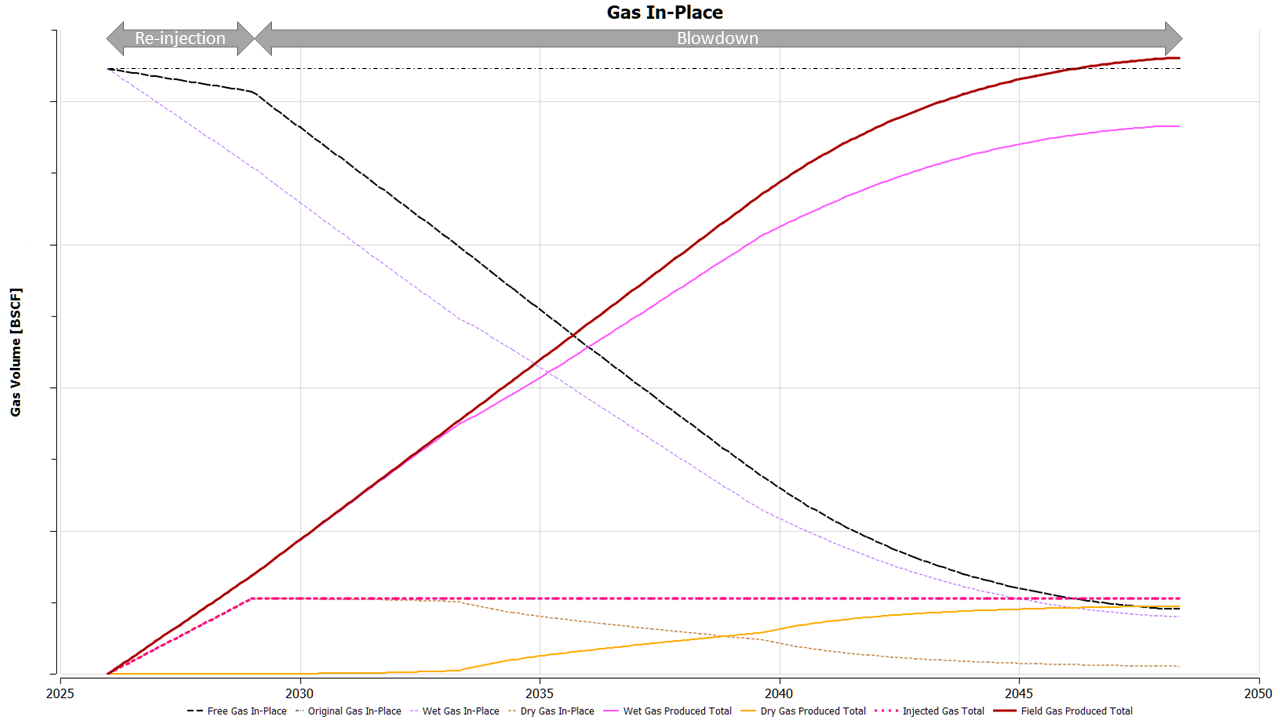
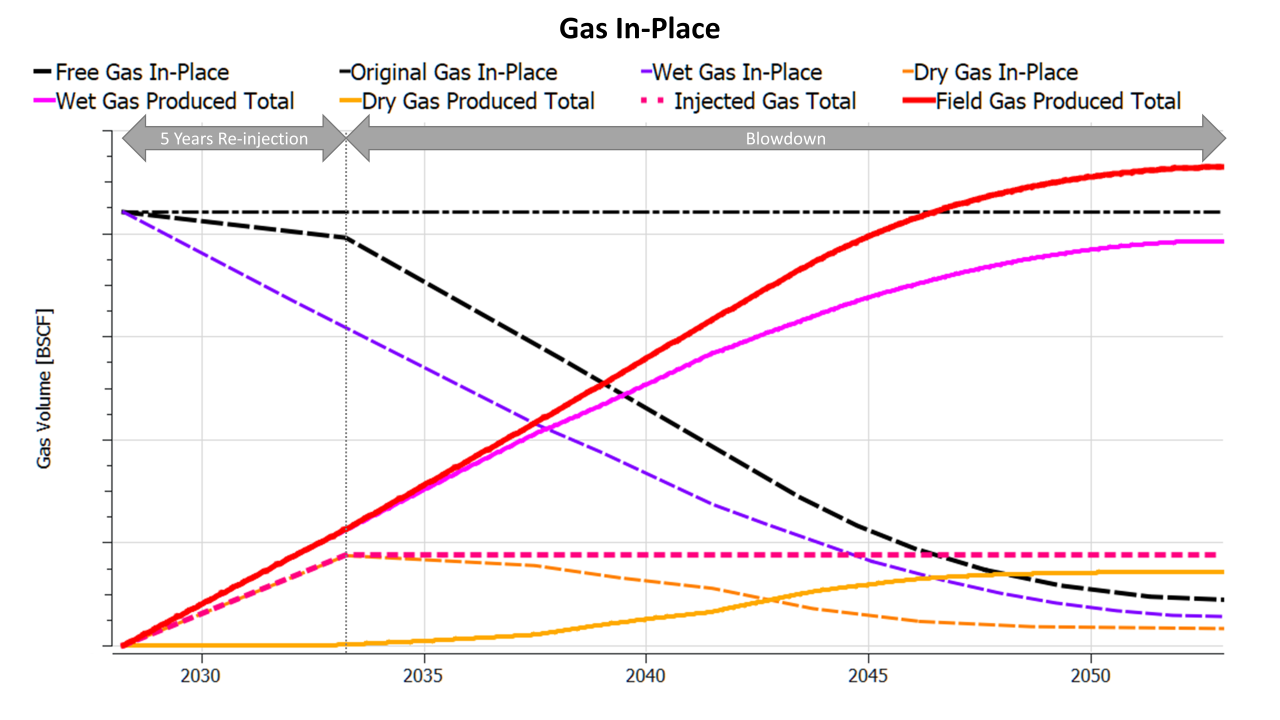
Post on creating a better ECLIPSE editor
New blog post on better text editor support for ECLIPSE files in NetBeans IDE, including syntax highlighting, code folding and error checking. Also further fixes script for gas-recycling using modified black-oil approach.

diff --git a/_posts/pyrus/2024-01-04-writing-editor-for-eclipse.md b/_posts/pyrus/2024-01-04-writing-editor-for-eclipse.md
@@ -1,0 +1,173 @@
+---
+layout: article
+title: Writing an Editor for ECLIPSE Decks
+modified:
+categories: pyrus
+excerpt: Leveraging the NetBeans IDE to support editing of ECLIPSE language simulation decks for use in OPM Flow.
+tags: [pyrus_suite, netbeans, dynamic_modelling, simulation, software, OPM_Flow, programming, simulation_deck, ide]
+image:
+  feature: feature-writing-editor-for-eclipse-1024x256.jpg
+  teaser: teaser-writing-editor-for-eclipse-400x250.jpg
+  thumb:
+comments: true
+---
+
+A previous approach to improving the quality of life when dealing with the input text files for _OPM Flow_ was to [implement syntax highlighting in _Notepad++_](/analysis/syntax-highlighting-for-opmflow-in-notepadpp) which aided the readability of the simulation deck by indicating the meaning of text via colour. There were some shortcomings with this implementation and it led to the question as to whether it could be improved on and if other quality of life improvements could also be brought to bear.
+
+I've been working on implementing a proper reservoir simulation deck editor for the NetBeans platform for a few weeks now, and have made good progress. This article demonstrates what has been achieved so far and the planned way ahead.
+
+## Writing an Editor for ECLIPSE Decks
+
+The standard input form for a reservoir simulation is a simple text file. Text editors are ubiquitous in the computing world, and editing these files is thus a relatively easy task in comparison to some of the other formats that are encountered in the oil and gas industry.
+
+Programs are also written using text files which are then compiled (or interpreted) to produce the desired behaviour. A variety of different techniques have arisen over many years to improve and facilitate the editing of these text files:
+
+ * **Syntax highlighting:** Within any programming language, certain words are "reserved" and have a particular function and purpose in that language. The use of these words, in combination with the known grammar of the language, indicates that other words are either identifiers (variable names), or values such as numbers or strings. By leveraging the known structure of a language, colour can be applied to the words in a text file to highlight the purpose of the text in the context of that language i.e., to reveal and emphasise the syntax of the text. This is a powerful feature that greatly aids readability of the text file
+ * **Code folding:** Programs tend to be made up of blocks of statements with a defined start and end. In a lengthy program there can be thousands of lines of code in any given file. This can make scrolling through the document to find a specific block or statement quite tedious. Code folding allows blocks of text such as multi-line comments and statements to be collapsed to a single line when displayed. This allows much more of the program structure to be seen and understood on a single display.
+ * **Error checking:** Typos are a fact of life. Most integrated development environments (IDEs) will highlight basic errors such as these without the need to attempt to compile or run the program. More advanced IDEs can even detect common input errors which would compile and run, but lead to subtle bugs in the program; a process known as [linting](https://en.wikipedia.org/wiki/Lint_(software)).
+ * **Code completion:** Writing code can be a repetitive exercise. Often when writing sections of code, it is reasonably predictable what is needed to complete a statement. A good IDE will offer to complete writing statements once it is fairly certain what the remaining text should look like. This greatly speeds up writing.
+ * **Documentation on hover:** Information about keywords and the expected syntax can be provided as a hint when the mouse cursor hovers over that keyword. This can greatly aid the utility of the editor as the need to constantly reference a separate manual is removed.
+ * **Reformatting:** In any text document, as a general rule, whitespace and comments do not hold any meaning, and are skipped over when interpreting the file. However, this means that files can, and do, easily become a mess of different styles. This becomes more pronounced when cut and paste from other code is used. A good IDE will effortlessly tidy up messy files to produce consistently formatted documents with the desired whitespace and comments that wrap to a desired row length.
+ * **Refactoring:** This is essentially a more powerful version of a find and replace. A good IDE can not only mark all occurrences of a specific word in a text document, but will also intelligently replace all usages of that word with a different one, even in related files that refer to the code being changed.
+
+This is by no means an exhaustive list, and there are many other useful features that have been devised to assist with writing code. Previously I had implemented some basic syntax highlighting using Notepad++ for ECLIPSE input decks. I personally found this to be incredibly useful, and was surprised to learn that did not appear to be any prior implementations. Whilst the Notepad++ syntax highlighting was useful, there were a few shortcomings and the question I had to ask was, "can I do better?".
+
+Ideally I would be able to incorporate an editor into the Pyrus Suite which is built on the NetBeans platform, and NetBeans is itself used as an IDE for a variety of different languages. This platform is extendable to other languages, and eventually I had what was, in hindsight, a fairly obvious epiphany... why not use the NetBeans platform to write an IDE for ECLIPSE files. Almost all of the underlying plumbing has already been created. All I would need to do it plug into it and define the rules for the ECLIPSE language.
+
+Inevitably this was a bigger task than I had optimistically envisaged. However, just a couple of weeks after I had embarked on this quest, I've managed to implement syntax highlighting, cold folding and error detection (as well as a few bonus features). This blog post explains how I went about the implementation and some interesting things I learned along the way. In the not to distant future I hope to finally release a version of Pyrus that will allow others to use the ECLIPSE editor.
+
+### Proof of Concept NBM Plugin for NetBeans IDE
+
+In the spirit of don't run before you can walk, a single NetBeans module to provide language support for the NetBeans IDE has first been developed. This module should then, in theory, also be usable within the Pyrus Suite. The advantage of developing the plugin as a standalone IDE module is that there are no dependencies on any Pyrus code, and the module can be tested directly within a copy of the IDE.
+
+#### Syntax Highlighting
+
+Syntax highlighting does not require any special functionality to enable it. The ECLIPSE file type is recognised by its MIME type file extension (text/x-eclipse) and the IDE knows to use the Eclipse editor top component when opening this file type by default. The default colours have been designed to work with the "Norway Today" theme included with NetBeans. This is a dark theme that works well for me, although I suspect others may hold an opinion that it is something of an angry fruit salad.
+
+Tokens recognised by the lexer are automatically coloured according to their types:
+
+| Token Type | Colour |
+|---|---|
+| Keyword | Red |
+| Mathematical Operation Keyword | Bronze |
+| User Defined Quantity Keyword | Cyan |
+| OPM Flow Specific Keyword | Italic Red |
+| OPM Unsupported Keyword | Italic Grey |
+| Grid Cell Variable | India Green |
+| Summary Variable | Light Green |
+| User Defined Variable | White |
+| Number | Yellow |
+| Quoted String | Yellow |
+| Unquoted String | Yellow |
+| Terminating Slash | White |
+| Comment | Light Blue |
+| Text | White |
+
+Whilst this initially appears that there are many different colours that could clash, the logic is that colours appear in groups, so aid in identification of different keywords simply by the syntax highlighting used for that keyword.
+
+For example, many keywords are standalone activation keywords, or associated with array data, row data or column data that comprises numbers and strings, both with and without terminating slash characters. These blocks of keywords will appear as a combination of red, yellow and white text. Mathematical operation keywords such as `OPERATE`, `ADD` etc. are bronze, and are associated with numbers and strings (yellow), grid cell variables (forest green) and terminating slashes (white). Finally, user defined quantity keywords such as `UDQ` or `ACTIONX` use cyan for the keywords, light green for any summary variables included in expressions, white colour for user-defined variables or operators and terminating slashes, and yellow for numbers and strings. The use of different colours means that the blocks of mathematical operation keywords or user defined quantity keywords appear distinct from the conventional keywords.
+
+This can be seen in the following figure which compares the three different blocks just mentioned.
+
+<figure>
+	<a href="{{ site.url }}/images/Pyrus/writing-editor-for-eclipse1.png" data-lightbox="image-1" data-title="Comparison of syntax highlighting for different keywords.">
+		<img src="{{ site.url }}/images/Pyrus/writing-editor-for-eclipse1.png" alt="Comparison of syntax highlighting for different keywords."/>
+	</a>
+	<figcaption><strong>Figure 1: Comparison of syntax highlighting for different keywords.</strong></figcaption>
+</figure>
+
+As the ECLIPSE editor is written with the _OPM Flow_ simulator in mind, there is also special treatment for certain keywords. Keywords such as `PVTSOL` that are recognised only by _OPM Flow_ are shown in italics, and recognised but unsupported keywords are shown in grey. Other commercial simulation programs such as `tNavigator` that also have their own proprietary keywords, will initially appear as keywords in bold red, but will also be marked as a potential error as the keyword is not recognised.
+
+#### Code Folding
+
+Moving on from syntax highlighting we have code folding. For most languages this is relatively straightforward as multi-line comment blocks have a distinct start and end, as do methods and other similar statements which are defined by their start and end braces.
+
+In the ECLIPSE language there are no braces via which detection of the start and end of a keyword or comment block can be achieved. The simplest case are multi-line comments which are just a sequence of single line comments. This is reasonably easy to detect. When single line comment is encountered, if the next line is also a single line comment or empty, then add it to the fold block. This logic continues until a line that is not empty or a single line comment is encountered.
+
+Keywords are more difficult. To wrap our keywords in a code fold, we have to define the start and end of the keyword. Defining the start is relatively easy, as it is simply triggered every time a keyword is encountered in the token sequence. However, the end is not as straightforward. Logically one might define this as the token before the next keyword (with the exception of `ACTIONX` keywords, there is no nesting of keywords). However, what if there are comments before the next keyword? In that case we must define the end of the fold as the line prior to the next keyword that is not a single line comment or an empty line.
+
+In practice the user does not need to concern themselves with any of this. The code folds appear in the left margin of the editor as little '+' or '-' symbols and can be collapsed or expanded by clicking on the fold. A very useful function is the option to collapse all folds at once with the shortcut <kbd>Ctrl</kbd> + <kbd>Shift</kbd> + <kbd>-</kbd>. This collapses blocks of comments and keywords into a single line each. Note that the folded blocks indicate whether the fold contains a comment, or a keyword, and shows how many lines are folded. This makes it much easier to see the overall structure and purpose of an ECLIPSE deck at a glance.
+
+<figure>
+	<a href="{{ site.url }}/images/Pyrus/writing-editor-for-eclipse2.png" data-lightbox="image-2" data-title="Eclipse simulation deck with code folding applied to recognised keywords and comment blocks.">
+		<img src="{{ site.url }}/images/Pyrus/writing-editor-for-eclipse2.png" alt="Eclipse simulation deck with code folding applied to recognised keywords and comment blocks."/>
+	</a>
+	<figcaption><strong>Figure 2: Eclipse simulation deck with code folding applied to recognised keywords and comment blocks.</strong></figcaption>
+</figure>
+
+The reverse operation, to expand all folds, is accomplished using the shortcut <kbd>Ctrl</kbd> + <kbd>Shift</kbd> + <kbd>+</kbd>.
+
+Once you have collapsed all the folds, whilst it is much easier to get a birds eye view of the simulation deck structure, the detail for individual keywords is now hidden. Hovering over a folded block will reveal the text that has been folded, without needing to expand and then collapse the fold again just to peek at the contents. The example shown here hovers over the folded PVDS keyword to reveal the content of that keyword.
+
+<figure>
+	<a href="{{ site.url }}/images/Pyrus/writing-editor-for-eclipse3.png" data-lightbox="image-3" data-title="Folded content is revealed upon mouse hover over the fold.">
+		<img src="{{ site.url }}/images/Pyrus/writing-editor-for-eclipse3.png" alt="Folded content is revealed upon mouse hover over the fold."/>
+	</a>
+	<figcaption><strong>Figure 3: Folded content is revealed upon mouse hover over the fold.</strong></figcaption>
+</figure>
+
+A special case concerns `ACTIONX` keywords as another `ACTIONX` keyword can be embedded within another, and indeed other keywords can be triggered once the conditions for the action are satisfied. Our previous logic to end the fold block when the next keyword is encountered will not work. However, we can instead look for an `ENDACTIO` keyword that denotes the end of the `ACTIONX` block. By keeping a running count of the number of `ACTIONX` keywords encountered, and decrementing this count every time an `ENDACTIO` keyword is encountered, a basic way to wrap an entire `ACTIONX` keyword with a code fold can be implemented. This does not allow for nesting of keywords within the action, although this is planned for the future.
+
+#### Error Checking
+
+With just syntax highlighting and code folding, our ECLIPSE editor is already much more useful than a plain text editor. However, these features just aid with readability and scrolling of the document. They don't really assist with writing the simulation deck itself.
+
+For a basic implementation of error checking, we can leverage a parser to ensure that the syntax of our simulation deck is correct, and highlight where inconsistencies against the expected format are encountered.
+
+The main challenge with implementing error checking using JavaCC on the NetBeans platform is related to ensuring that the correct token is highlighted and that a sensible message is presented to the user so that there is guidance as to how the error can be resolved.
+
+As an example consider the `OPERATE` keyword. In the `EDIT` section this can be used to define a value for the `PORV` grid cell variable, but this is not allowed in the `GRID` section. The parser is aware of which section the keyword is located, and is able to flag the incorrect usage of this variable in the `GRID` section, but no error is presented for the exact same keyword in the `EDIT` section.
+
+<figure>
+	<a href="{{ site.url }}/images/Pyrus/writing-editor-for-eclipse4.png" data-lightbox="image-4" data-title="Error highlighting is aware of which section the keywords are used within.">
+		<img src="{{ site.url }}/images/Pyrus/writing-editor-for-eclipse4.png" alt="Error highlighting is aware of which section the keywords are used within."/>
+	</a>
+	<figcaption><strong>Figure 4: Error highlighting is aware of which section the keywords are used within.</strong></figcaption>
+</figure>
+
+Error checking runs continually on a background thread, and as changes are made to the simulation deck, errors are added and removed.
+
+#### Tracking Changes and Other Useful Tools
+
+A massive benefit of re-purposing the NetBeans IDE for the ECLIPSE language is that so much functionality of the NetBeans editor comes along for free. Basic shortcuts for manipulation of text include:
+
+ * <kbd>Ctrl</kbd> + <kbd>Shift</kbd> + <kbd>R</kbd><br>
+   Column/block editing. Exceptionally useful for editing columns of data in a tabular keyword.
+ * <kbd>Ctrl</kbd> + <kbd>Shift</kbd> + <kbd>&uarr;</kbd><br>
+   Duplicate lines above.
+ * <kbd>Ctrl</kbd> + <kbd>Shift</kbd> + <kbd>&darr;</kbd><br>
+   Duplicate lines below.
+ * <kbd>Alt</kbd> + <kbd>Shift</kbd> + <kbd>&uarr;</kbd><br>
+   Move lines up.
+ * <kbd>Alt</kbd> + <kbd>Shift</kbd> + <kbd>&darr;</kbd><br>
+   Move lines down.
+ * <kbd>Ctrl</kbd> + <kbd>E</kbd><br>
+   Elide a line (remove the line). Honestly, this is one of the most useful shortcuts I know. Quite how I used to edit text before I came across this is a mystery. It is so much faster than selecting from the start of a line to the end of a line and then deleting.
+
+In addition to the standard NetBeans keyboard shortcuts for text manipulation, there is the local history for a document. This allows a track history of changes made to a document via what is known as a Diff against earlier versions. The changes are highlighted graphically as insertions, deletions and changes, and it is easy to revert to earlier versions if needed.
+
+<figure>
+	<a href="{{ site.url }}/images/Pyrus/writing-editor-for-eclipse5.png" data-lightbox="image-5" data-title="Changes made to the document are easily tracked and reverted if necessary.">
+		<img src="{{ site.url }}/images/Pyrus/writing-editor-for-eclipse5.png" alt="Changes made to the document are easily tracked and reverted if necessary."/>
+	</a>
+	<figcaption><strong>Figure 5: Changes made to the document are easily tracked and reverted if necessary.</strong></figcaption>
+</figure>
+
+There is also the ability to mark similar occurrences. This is not necessarily that useful in an ECLIPSE deck, but it is possible nonetheless. When writing user defined quantities, it can be helpful to see where previously defined terms are used. Double clicking on a variable will highlight where else that variable is used in the document.
+
+<figure>
+	<a href="{{ site.url }}/images/Pyrus/writing-editor-for-eclipse6.png" data-lightbox="image-6" data-title="Highlighting other usages of the same user defined variable.">
+		<img src="{{ site.url }}/images/Pyrus/writing-editor-for-eclipse6.png" alt="Highlighting other usages of the same user defined variable."/>
+	</a>
+	<figcaption><strong>Figure 6: Highlighting other usages of the same user defined variable.</strong></figcaption>
+</figure>
+
+### Next Steps
+
+Less than a month on from starting this little project to develop an ECLIPSE plugin for the NetBeans IDE and some tangible progress is evident. Already the editor is proving much more useful than the previous approach which was to use some custom syntax highlighting in _Notepad++_.
+
+The next steps are:
+ * Introduce [code completion for recognised keywords](https://netbeans.apache.org/tutorial/main/tutorials/nbm-code-completion/) including provision of documentation.
+ * [Reformatting of the simulation deck](https://netbeans.apache.org/tutorial/main/tutorials/nbm-javacc-parser/#_implementing_a_new_feature_reformatting) to enforce pretty spacing and consistent column widths, plus the optional addition of keyword documentation in comments.
+ * Introduce code [templates](https://netbeans.apache.org/tutorial/main/tutorials/nbm-code-template/), [snippets](https://netbeans.apache.org/tutorial/main/tutorials/nbm-palette-api1/) and [generation](https://netbeans.apache.org/tutorial/main/tutorials/nbm-code-generator/) for commonly used keywords.
+ * Incorporate plugin into a standalone Pyrus distributable program that can be freely downloaded for use by others in the oil and gas industry.

diff --git a/_posts/analysis/2022-02-16-gas-recycling-material-bal.md b/_posts/analysis/2022-02-16-gas-recycling-material-bal.md
@@ -1,7 +1,7 @@
 ---
 layout: article
 title: Gas-Recycling Simulation with OPM Flow
-modified: 20 November 2023
+modified: 20 December 2023
 categories: analysis
 excerpt: Using OPM Flow modified black oil model to simulate a gas-condensate recycling scheme without tracers.
 tags: [dynamic_modelling, simulation, OPM_Flow, black_oil, gas_recycling]
@@ -66,7 +66,7 @@ Let's first consider the material balance for the known and unknown quantities o
 | FU_DGPT | **Field dry gas produced total**. Once lean gas breakthrough occurs, part of the reinjected dry gas will be produced. |
 | FU_DGIP | **Field dry gas-in-place**. The balance of the reinjected dry gas that has not been produced back is, by definition, in-place within the reservoir. Thus FU_DGIP = FGIT - FU_DGPT. |
 | FGIPG | **Field gas-in-place for gas component**. This is the total gas-in-place for the reservoir including both wet and dry gas. Note that it would technically be more correct to use FGIP which includes both the gas and oil components in the modified black oil model e.g. free gas and solution gas. Testing with OPM Flow led to errors using the FGIP variable, so as a compromise the FGIPG variable which is the free gas-in-place only was used. |
-| FGPT | **Field gas produced total**. Includes both wet and dry gas. This is the total amount of gas component that is produced, irrespective of whether the gas is associated with wet gas (R<sub>v</sub> &gt; 0.0) or dry gas (R<sub>v</sub> = 0.0). |
+| FU_IPGPT | **Field in-place gas produced total**. Includes both wet and dry gas. This is the total amount of gas component that is produced, irrespective of whether the gas is associated with wet gas (R<sub>v</sub> &gt; 0.0) or dry gas (R<sub>v</sub> = 0.0). Note that the calculation based on the addition of wet and dry gas produced totals is more accurate than the summary variable FGPT "Field gas produced total" . |
 
 The volumetric relationships between these quantities is shown in Figure 2. The figure illustrates the relative volume for a given category of gas on a horizontal scale. The breakdown of a particular component into sub-components is shown using the same horizontal scale. Note that these volumes are for the gas component at standard conditions. Colour coding for the components is the same as used in the line plots for Figure 1 in order to aid comparison between the two figures.
 
@@ -94,7 +94,9 @@ Since only dry gas is injected, the R<sub>v</sub> for wet gas in the reservoir m
 
 Re-arranging gives: FU_WGIP = FOIPG / FU_RVPVT. FOIPG can be obtained from the simulator and FU_RVPVT is the known R<sub>v</sub> for the gas at a specific reservoir pressure. This means that it is possible to determine the wet gas-in-place precisely and from this all other wet and dry gas volumes are derived.
 
-<div class="notice-info">Since this post was originally written, it has been discovered that the approach described does not work as expected. In particular the wet gas in place determined by this method appears to be lower than the actual wet gas in place, leading to a decrease in dry gas in place that does not match the dry gas produced. Therefore a slightly different approach has been implemented based on the wet gas produced rate FU_WGPR = FOPRS / FU_RVPVT. Combination of the rate and the TIMESTEP allows the cumulative wet gas produced total (FU_WGPT) to be tracked, and from this all other parameters can be determined.</div>
+<div class="notice-info">Since this post was originally written, it has been discovered that the approach described does not work as expected. In particular the wet gas-in-place determined by this method appears to be lower than the actual wet gas-in-place, leading to a decrease in dry gas-in-place that does not match the dry gas produced. Therefore a slightly different approach has been implemented based on the wet gas produced rate FU_WGPR = FOPRS / FU_RVPVT which appears to be more accurate than reliance on the totals. Combination of the rate and the TIMESTEP allows the cumulative wet gas produced total (FU_WGPT) to be tracked, and from this all other parameters can be determined.<br>
+<br>
+Furthermore, the field gas produced total (FGPT) is appears higher than the real volume of gas produced. An additional variable for the in-place gas produced total, FU_IPGPT = FU_WGPT + FU_DGPT, was introduced to ensure all values reconcile. Note that FU_IPGPT != FGPT.</div>
 
 ### Correlating PVTG Below Dew Point
 
@@ -143,6 +145,12 @@ UDQ
    DEFINE FU_RVD   FU_RVA + FU_RVB - FU_RVC + 7.048255E-02                         / FU_RVPVT Polynomial Equation Part D
    DEFINE FU_RVPVT FU_RVD * FUFLAGDP + FURV * (1 - FUFLAGDP)                       / Actual Wet Gas Oil-Gas Ratio (stb per Mscf)
    UNITS  FU_RVPVT 'STB/MSCF'                                                      /
+   DEFINE FUOGASIP FGIPG + FGPT - FGIT                                             / Original Field Gas In-Place
+   UNITS  FUOGASIP 'MSCF'                                                          /
+   DEFINE FUONGLIP FUOGASIP * FUNGLYLD                                             / Original Condensate In-Place
+   UNITS  FUONGLIP 'STB'                                                           /
+   DEFINE FUOLPGIP FUOGASIP * FULPGYLD                                             / Original LPG In-Place
+   UNITS  FUOLPGIP 'BBL'                                                           /
    DEFINE FU_WGPR  FOPRS / FU_RVPVT                                                / Wet Gas Production Rate
    UNITS  FU_WGPR  'MSCF/DAY'                                                      /
    DEFINE FU_DGPR  FGPR - FU_WGPR                                                  / Dry Gas Production Rate
@@ -152,12 +160,14 @@ UDQ
    ASSIGN FU_DGPT  0.0                                                             / Dry Gas Produced Total
    DEFINE FU_DGPT  FU_DGPT + FU_DGPTS                                              /
    UNITS  FU_DGPT  'MSCF'                                                          /
-   DEFINE FU_WGPT  FGPT - FU_DGPT                                                  / Wet Gas Produced Total
-   UNITS  FU_WGPT  'MSCF'                                                          /
    DEFINE FU_DGIP  FGIT - FU_DGPT                                                  / Field Dry Gas In-Place
    UNITS  FU_DGIP  'MSCF'                                                          /
    DEFINE FU_WGIP  FGIPG - FU_DGIP                                                 / Field Wet Gas In-Place
    UNITS  FU_WGIP  'MSCF'                                                          /
+   DEFINE FU_WGPT  FUOGASIP - FU_WGIP                                              / Wet Gas Produced Total
+   UNITS  FU_WGPT  'MSCF'                                                          /
+   DEFINE FU_IPGPT FU_WGPT + FU_DGPT                                               / In-Place Gas Produced Total
+   UNITS  FU_IPGPT 'MSCF'                                                          /
    DEFINE FU_OGR   1.0 / FGOR                                                      / Current Producing Oil-Gas Ratio
    UNITS  FU_OGR   'STB/MSCF'                                                      /
    DEFINE FU_NGLR  FOPR * (FUNGLYLD / FURV)                                        / Condensate Production Rate
@@ -180,14 +190,8 @@ UDQ
    UNITS  FU_SGPR  'MSCF/DAY'                                                      /
    DEFINE FU_GIR   FU_NGPR * (1 - FUFLAGGS)                                        / Gas Re-Injection Rate
    UNITS  FU_GIR   'MSCF/DAY'                                                      /
-   DEFINE FU_NGPT  FGPT - (FU_WGPT * FUTOTSHK)                                     / Post-Processing Net Gas Produced Total
+   DEFINE FU_NGPT  FU_IPGPT - (FU_WGPT * FUTOTSHK)                                 / Post-Processing Net Gas Produced Total
    UNITS  FU_NGPT  'MSCF'                                                          /
-   DEFINE FUOGASIP FGIPG + FGPT - FGIT                                             / Original Field Gas In-Place
-   UNITS  FUOGASIP 'MSCF'                                                          /
-   DEFINE FUONGLIP FUOGASIP * FUNGLYLD                                             / Original Condensate In-Place
-   UNITS  FUONGLIP 'STB'                                                           /
-   DEFINE FUOLPGIP FUOGASIP * FULPGYLD                                             / Original LPG In-Place
-   UNITS  FUOLPGIP 'BBL'                                                           /
    DEFINE FU_SGPT  (FU_NGPT - FGIT) * FUFLAGGS                                     / Gas Sales Produced Total
    UNITS  FU_SGPT  'MSCF'                                                          /
    DEFINE FU_GASRF (1.0 - (FGIPG / FUOGASIP)) * 100.0                              / Gas Recovery Factor
@@ -199,7 +203,7 @@ UDQ
    DEFINE FU_NGLRF (FU_NGLT / FUONGLIP) * 100.0                                    / Condensate Recovery Factor
    UNITS  FU_NGLRF '%'                                                             /
    DEFINE FU_LPGRF (FU_LPGT / FUOLPGIP) * 100.0                                    / LPG Recovery Factor
-   UNITS  FU_LPGRF '%'                                                         /
+   UNITS  FU_LPGRF '%'                                                             /
 / End of UDQ Keyword
 --
 -- ------------------------- DEFINE GLOBAL CUSTOM ACTIONS -------------------------

diff --git a/_drafts/2024-01-05-implementing-eclipse-language-in-netbeans.md b/_drafts/2024-01-05-implementing-eclipse-language-in-netbeans.md
@@ -1,0 +1,65 @@
+---
+layout: article
+title: Implementing the ECLIPSE Language with NetBeans IDE
+modified:
+categories: pyrus
+excerpt: Implementing ECLIPSE simulator language support in the NetBeans IDE.
+tags: [pyrus_suite, netbeans, dynamic_modelling, simulation, software, OPM_Flow, programming, lexing, parsing, simulation_deck, ide]
+image:
+  feature: 
+  teaser: teaser-implement-eclipse-in-netbeans-400x250.jpg
+  thumb:
+comments: true
+---
+
+NetBeans is a open-source modular platform. The consequence of this is that it is not necessary to write an entire application specific to editing of ECLIPSE files. What is instead needed is to write a plug-in that describes aspects of ECLIPSE files that can be implemented within an IDE that was designed to accommodate new and different languages.
+
+## Implementing the ECLIPSE Language with NetBeans IDE
+
+So where does one begin? Inevitably, as with any open source project, the quality of the documentation and support is somewhat hit and miss. Generally NetBeans is very good, but this is offset by the sheer quantity of documentation available and the continually evolving nature of the codebase itself. Finding out how to do something is an exercise in managing dead links, appreciating how code in older tutorials needs to be adapted to the latest version of NetBeans and investigating the source code itself to understand how features have been implemented. This section goes into some of the details as to how support for another language was enabled in the NetBeans IDE, and the challenges that were encountered and overcome along the way.
+
+### Lexing and Parsing ... Say What?
+
+The first step in writing support for a new language is to write a lexer and a parser for the language in question. For myself, I'm not actually sure if this is easier said than done, because to be honest at first I had no idea what a [lexer](https://en.wikipedia.org/wiki/Lexical_analysis) and a [parser](https://en.wikipedia.org/wiki/Parsing) even are. Turns out, that lexing involves analysing a string of characters, determining the purpose of each word (series of sequential characters between whitespace) and assigning that word to a previously defined token such as a number, string, reserved keyword, or any other arbitrarily defined meaning. Where lexing is concerning just with matching character sequences to tokens, parsing is concerning with the order of the tokens. Parsing involves applying knowledge of the language grammar to the token sequence. For example, in ECLIPSE language we know that a keyword such as "DX" will be followed by a sequence of numbers or repeated numbers, and is concluded with a "/" character at the very end. Parsing checks that this expected token sequence exists and flags an error if it encounters something different.
+
+For better or worse the [tutorials for lexing](https://netbeans.apache.org/tutorial/main/tutorials/nbm-javacc-lexer/) and [parsing in NetBeans](https://netbeans.apache.org/tutorial/main/tutorials/nbm-javacc-parser/) are based on the use of [JavaCC](https://javacc.github.io/javacc//). This is an open-source approach that was originally provided to the Java community by Sun Microsystems (the original developer of the Java language) on 1996. On the plus side, it has been around for a long time and can be considered mature and proven. On the down side, many alternatives have since emerged for which the syntax and generated code could be considered more elegant, such as [ANTLR](https://cwiki.apache.org/confluence/display/NETBEANS/Using+ANTLR) or [Language Server Protocol (LSP)](https://cwiki.apache.org/confluence/pages/viewpage.action?pageId=263425900). However, [converting from JavaCC to ANTLR](https://tomassetti.me/converting-from-javacc-to-antlr/) just for the sake of using a more modern approach is not necessarily worth it. Unless there is a need to change, JavaCC should be adequate.
+
+So, given that I was going to be diving in at the deep end already, it was decided to write the lexer and parser using JavaCC. This would at least allow the tutorials to be followed and understood. But wait... there's more. Because JavaCC is not actively maintained or developed. It is a legacy approach which rarely received updates. The great thing about open-source is that anyone is free to create a fork of JavaCC, and [forks have been developed including JavaCC 21 and CongoCC](https://parsers.org/javacc21/i-shall-tell-you-my-plans-but-then-i-shall-have-to-kill-you-mr-bond-van-bruggen/), although if you read through the discussions it is evident that people seem to have taken offense to a fork being created. In my case, migration to a different fork of JavaCC can be left to the future. If JavaCC works, then it will be easier to learn this established syntax.
+
+One downside of sticking with JavaCC is that there does not appear to be a plugin for NetBeans that will do syntax highlighting etc. for the .jj files. This is somewhat ironic as I'm writing the grammar to enable syntax highlighting and other features for another language, but the tools themselves don't benefit from those features. Whilst it's a little painful editing plain text files, the silver lining is that it only has to be done once.
+
+Before jumping into the how I have implemented the lexing and parsing for ECLIPSE language, there are a few good resources on JavaCC that really helped me which I should mention:
+
+* [**Official JavaCC Grammar Documentation:**](https://github.com/javacc/javacc/blob/master/docs/documentation/grammar.md)  The official documentation that explains how a .jj grammar file should be structured.
+* [**Getting Started with JavaCC:**](http://eriklievaart.com/web/javacc1.html) An excellent series of blog posts with practical examples on how to do most of the things that you could want to do when defining your grammar.
+ * [**Lexical Analysis in JavaCC:**](http://eriklievaart.com/web/javacc2.html) This excellent blog series continues with a specific focus on lexing. This includes basic information on the correct syntax for defining your tokens, handling of MORE states and SPECIAL_TOKEN types, and some useful advice on how to create UNKNOWN token types.
+ * [**Parsing in JavaCC:**](http://eriklievaart.com/web/javacc3.html) Finally we get to final stage of parsing. The post here was useful to understand how to add custom Java code to handle the parsing of tokens.
+ * [**JavaCC FAQ:**](https://javacc.github.io/javacc/faq.html) The offical community FAQ contains useful information but contains more advanced usage guidelines. As such it isn't a great place to start.
+
+#### Lexing the ECLIPSE Language
+
+At the simplest level, ECLIPSE files are a series of keywords which are up to eight characters long, where each character is a capital letter, and the keyword is encountered on its own line. A keyword is easily defined as follows:
+
+```
+TOKEN :
+{
+    < WHITESPACE: " "|"\t"|"\f" >
+    | < EOL: "\n"|"\r"|"\r\n" > 
+    | < KEYWORD: (["A"-"Z"]){2,8} (<WHITESPACE>)* <EOL> >
+}
+```
+
+Note that this convention means the keyword token will include any whitespace and the EOL character ('\n', '\r' or '\r\n' depending on the operating system). To get the keyword itself we should strip the whitespace and newline characters from the token. For example, using the tokens generated by JavaCC:
+
+```java
+Token t = getNextToken(); // includes whitespace and EOL char
+String keyword = t.image.strip(); // keyword with whitespace and EOL char removed
+```
+
+The problem is that there are many other character sequences that would fall under this definition. These include variables in the `SUMMARY` section like `FOPR` for the field oil production rate. This isn't strictly a keyword, so we need a way to differentiate between these summary variables and actual keywords. In the Notepad++ syntax highlighter a brute force approach was taken to define all known keywords, and assign those to a given type. A similar approach was taken using JavaCC, but because there are hundreds of keywords, this led to [a known issue whereby the generated Java code has a method that is so large it won't compile](https://parsers.org/javacc21/code-too-large-problem-fixed/). Forks of JavaCC have addressed the issue, but rather than switch to a different lexer, the solution utilised was to implement the inverse. Rather than defining all the keywords, leaving other character sequences as summary variables, the approach is to define the summary variables instead. This generates a smaller method, and then any remaining matches would be keywords.
+
+Defining the lexical rules to match summary variables is a little more daunting than just providing a list of known keywords. There are many different combinations of characters that are possible. Fortunately these follow a logical sequence of up to five characters that can be defined.
+
+#### Parsing the ECLIPSE Language
+
+Parsing the structure of an ECLIPSE file is relatively straightforward. There are up to eight defined sections, two of which are optional. Within each section, there are a set of keywords that can be utilised, and each keyword has a known sequence of tokens that must succeed it.

diff --git a/_posts/pyrus/2022-02-18-java-ecosystem-interoperability.md b/_posts/pyrus/2022-02-18-java-ecosystem-interoperability.md
@@ -3,7 +3,7 @@ layout: article
 title: Getting the Java Ecosystem to Play Nicely Together
 modified:
 categories: pyrus
-excerpt: As the Java ecosystem continues to evolve the its the little bits under the hood that need looking after.
+excerpt: As the Java ecosystem continues to evolve its the little bits under the hood that need looking after.
 tags: [pyrus_suite, java, netbeans, java_fx, adoptium, jdk, jogamp, jogl]
 image:
   feature: 
